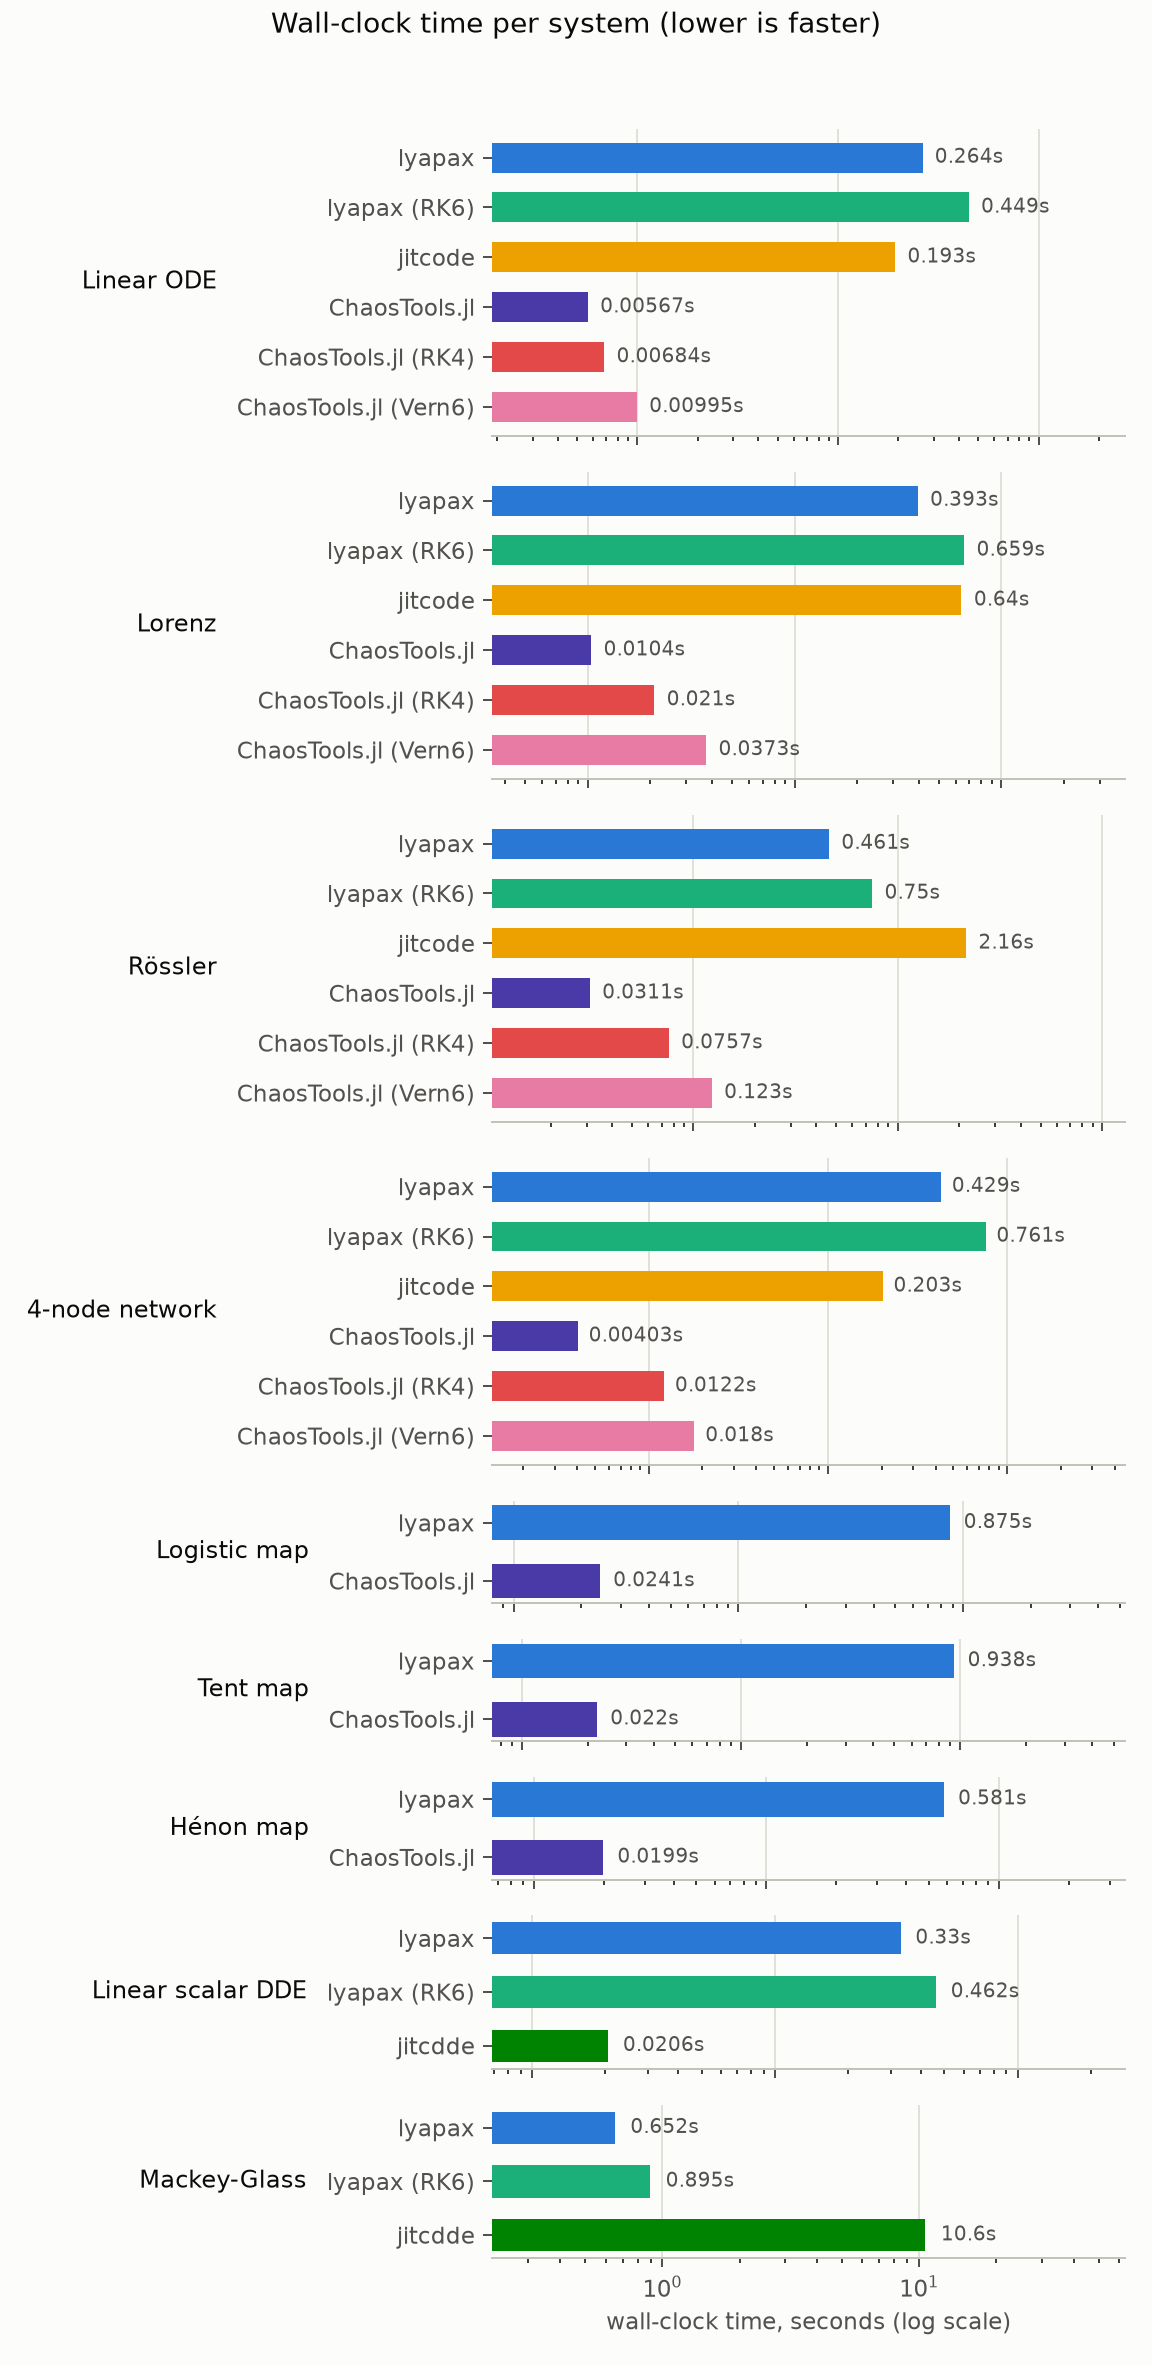
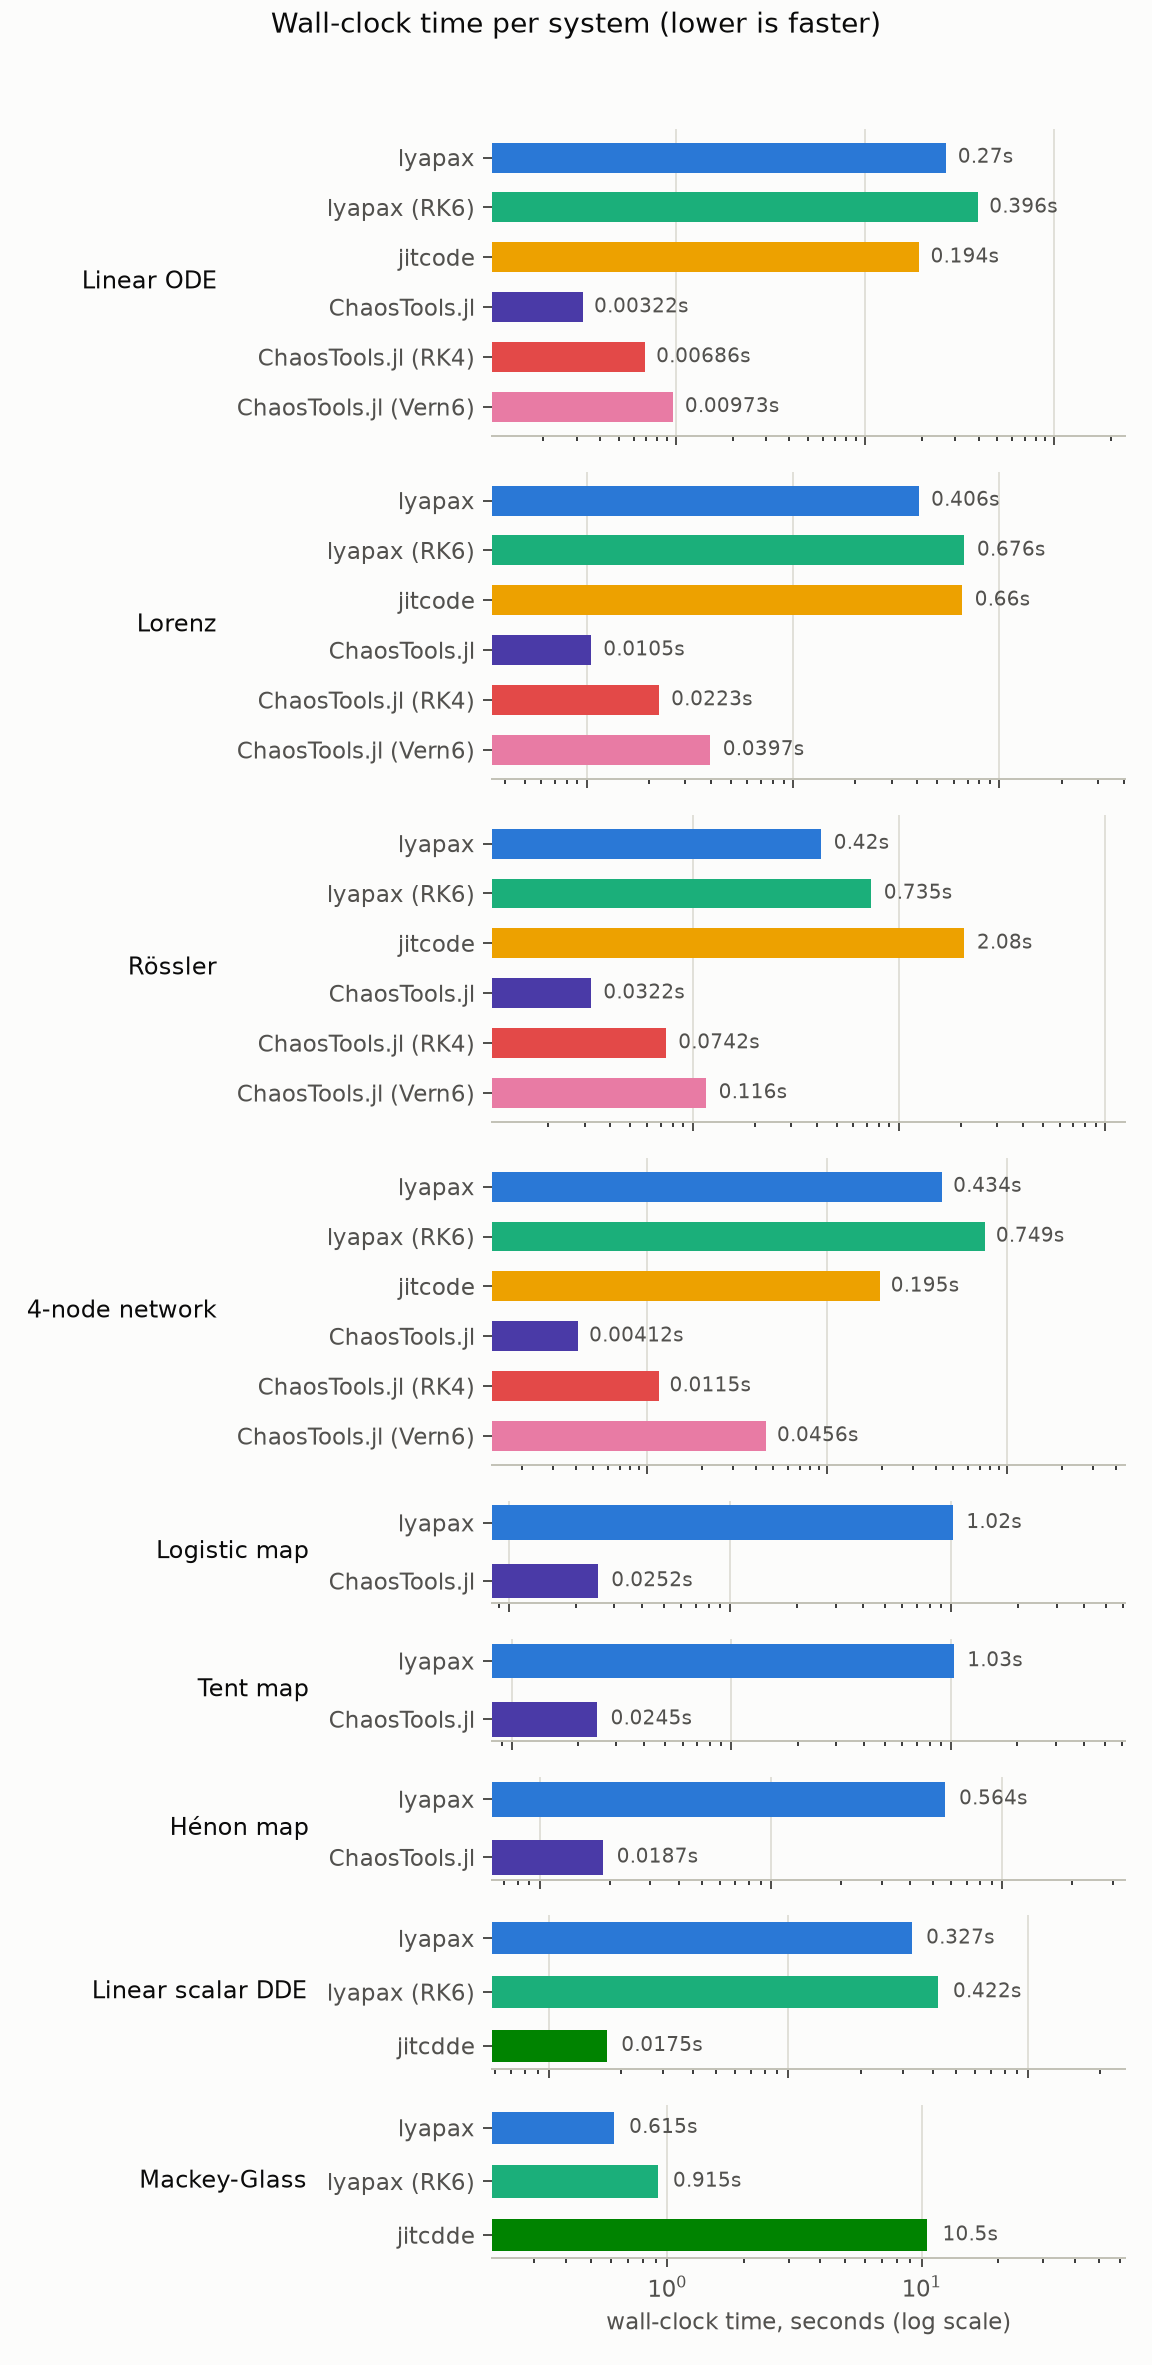
Add scaling performance plots and tables for lyapax and ChaosTools

diff --git a/benchmarks/report_plots.py b/benchmarks/report_plots.py
@@ -35,6 +35,7 @@ TOOL_COLOR = {
     "chaostools": "#4a3aa7",       # slot 5, violet
     "chaostools-rk4": "#e34948",   # slot 6, red
     "chaostools-rk6": "#e87ba4",   # slot 7, magenta
+    "lyapax-gpu": "#eb6834",       # slot 8, orange
 }
 TOOL_LABEL = {
     "lyapax": "lyapax",
@@ -44,6 +45,7 @@ TOOL_LABEL = {
     "chaostools": "ChaosTools.jl",
     "chaostools-rk4": "ChaosTools.jl (RK4)",
     "chaostools-rk6": "ChaosTools.jl (Vern6)",
+    "lyapax-gpu": "lyapax (GPU)",
 }
 
 SYSTEM_LABEL = {
@@ -129,11 +131,54 @@ def plot_performance(by_system: dict, out_path: Path) -> None:
     plt.close(fig)
 
 
+def plot_scaling(by_system: dict, out_path: Path) -> None:
+    """Wall-clock time vs. network size d, log-log, one line/marker series
+    per tool -- lyapax's k<<d matrix-free cost vs. ChaosTools.jl's/
+    jitcode's cost blowing up with d (or, for jitcode, its build cost --
+    not shown here, see docs/background/benchmarks.md's prose -- making it
+    stop at d=50 regardless of what its single steady-state point below
+    looks like).
+    """
+    tool_order = ["lyapax", "lyapax-gpu", "chaostools-rk4", "jitcode"]
+    sizes = [50, 200, 1000, 2000]
+    systems = [f"kuramoto_scaling_d{d}" for d in sizes]
+
+    fig, ax = plt.subplots(figsize=(6.4, 4.4), facecolor=SURFACE)
+    for tool in tool_order:
+        xs, ys = [], []
+        for d, sys_key in zip(sizes, systems):
+            row = by_system.get(sys_key, {}).get(tool)
+            if row is not None:
+                xs.append(d)
+                ys.append(row["warm_s"])
+        if not xs:
+            continue
+        marker = "o" if len(xs) > 1 else "x"
+        ax.plot(xs, ys, marker=marker, color=TOOL_COLOR[tool],
+                 label=TOOL_LABEL[tool], linewidth=2, markersize=6)
+
+    ax.set_xscale("log")
+    ax.set_yscale("log")
+    ax.set_xlabel("network size d (n_nodes)", fontsize=9, color=INK_SECONDARY)
+    ax.set_ylabel("wall-clock time, seconds (log scale)", fontsize=9,
+                   color=INK_SECONDARY)
+    ax.set_title("Dense Kuramoto network: wall time vs. size",
+                  fontsize=11, color=INK_PRIMARY, loc="left")
+    _style_axes(ax)
+    ax.legend(frameon=False, fontsize=8.5, labelcolor=INK_SECONDARY)
+
+    fig.tight_layout()
+    fig.savefig(out_path, dpi=180, facecolor=SURFACE)
+    plt.close(fig)
+
+
 def main() -> None:
     STATIC_DIR.mkdir(parents=True, exist_ok=True)
     by_system = load_results()
     plot_performance(by_system, STATIC_DIR / "benchmarks_performance.png")
+    plot_scaling(by_system, STATIC_DIR / "benchmarks_scaling.png")
     print(f"Wrote {STATIC_DIR / 'benchmarks_performance.png'}")
+    print(f"Wrote {STATIC_DIR / 'benchmarks_scaling.png'}")
 
 
 if __name__ == "__main__":

diff --git a/benchmarks/report_tables.py b/benchmarks/report_tables.py
@@ -266,11 +266,29 @@ def build_performance_table(by_system: dict) -> str:
     return _md_table(headers, rows)
 
 
+def build_scaling_table(by_system: dict) -> str:
+    order = ["lyapax", "lyapax-gpu", "chaostools-rk4", "jitcode"]
+    sizes = [50, 200, 1000, 2000]
+    systems = [f"kuramoto_scaling_d{d}" for d in sizes]
+    tools = _present(by_system, systems, order)
+    headers = ["Network size (d)"] + [TOOL_LABEL[t] for t in tools]
+    rows = []
+    for d, sys_key in zip(sizes, systems):
+        sys_rows = by_system.get(sys_key, {})
+        if not sys_rows:
+            continue
+        warm = [f"`{sys_rows[t]['warm_s']:.3f}s`" if t in sys_rows else "not attempted"
+                for t in tools]
+        rows.append([f"`{d}`", *warm])
+    return _md_table(headers, rows)
+
+
 MARKERS = {
     "ode-accuracy": build_ode_table,
     "maps-accuracy": build_maps_table,
     "dde-accuracy": build_dde_table,
     "performance": build_performance_table,
+    "scaling": build_scaling_table,
 }
 
 
@@ -304,6 +322,8 @@ def main() -> None:
     print(build_dde_table(by_system))
     print("\n### Performance\n")
     print(build_performance_table(by_system))
+    print("\n### Network-size scaling\n")
+    print(build_scaling_table(by_system))
 
     if args.write:
         for report_path in REPORT_PATHS:

diff --git a/docs/background/benchmarks.md b/docs/background/benchmarks.md
@@ -59,11 +59,11 @@ since it has no delay-equation support).
 <!-- AUTO:ode-accuracy -->
 | System | lyapax | lyapax (RK6) | jitcode | ChaosTools.jl | ChaosTools.jl (RK4) | ChaosTools.jl (Vern6) | Reference | Notes |
 |---|---|---|---|---|---|---|---|---|
-| Linear ODE (Tier 0.1) | `[-1.0000, -2.0000, -5.0000]` | `[-1.0000, -2.0000, -5.0000]` | `[-1.0000, -2.0000, -5.0000]` | `[-1.0000, -2.0000, -5.0000]` | `[-1.0000, -2.0000, -5.0000]` | `[-1.0000, -2.0000, -5.0000]` | exact `[-1, -2, -5]` | max abs diff from reference -- lyapax: `9.45e-07`, lyapax (RK6): `9.45e-07`, jitcode: `3.23e-06`, ChaosTools.jl: `8.76e-11`, ChaosTools.jl (RK4): `2.80e-11`, ChaosTools.jl (Vern6): `2.03e-12` |
-| Lorenz λ1 (Tier 1.1/2) | `0.90172` | `0.90878` | `0.90782` | `0.89674` | `0.90632` | `0.91334` | published `≈0.9056` | max abs diff from reference -- lyapax: `3.88e-03`, lyapax (RK6): `3.18e-03`, jitcode: `2.22e-03`, ChaosTools.jl: `8.86e-03`, ChaosTools.jl (RK4): `7.17e-04`, ChaosTools.jl (Vern6): `7.74e-03` |
-| Lorenz sum(λ) | `-13.6666` | `-13.6667` | `-13.6667` | `-13.5228` | `-13.6666` | `-13.6667` | exact `-13.6667` (`-(σ+1+β)`) | max abs diff from reference -- lyapax: `1.02e-04`, lyapax (RK6): `1.79e-09`, jitcode: `1.55e-06`, ChaosTools.jl: `1.44e-01`, ChaosTools.jl (RK4): `1.03e-04`, ChaosTools.jl (Vern6): `1.82e-09` |
-| Rössler λ1 (Tier 1.2/2) | `0.07080` | `0.08017` | `0.07244` | `0.06205` | `0.07545` | `0.07264` | qualitative `≈0.07` | max abs diff from reference -- lyapax: `7.98e-04`, lyapax (RK6): `1.02e-02`, jitcode: `2.44e-03`, ChaosTools.jl: `7.95e-03`, ChaosTools.jl (RK4): `5.45e-03`, ChaosTools.jl (Vern6): `2.64e-03` |
-| 4-node linear network (Tier 3.1) | `[-1.0000, -2.0000, -2.0000, -3.0000]` | `[-1.0000, -2.0000, -2.0000, -3.0000]` | `[-1.0000, -2.0000, -2.0000, -3.0000]` | `[-1.0000, -2.0000, -2.0000, -3.0000]` | `[-1.0000, -2.0000, -2.0000, -3.0000]` | `[-1.0000, -2.0000, -2.0000, -3.0000]` | exact `[-1, -2, -2, -3]` | max abs diff from reference -- lyapax: `3.53e-06`, lyapax (RK6): `3.53e-06`, jitcode: `3.83e-06`, ChaosTools.jl: `2.23e-06`, ChaosTools.jl (RK4): `2.18e-06`, ChaosTools.jl (Vern6): `2.18e-06` |
+| Linear ODE (Tier 0.1) | `[-1.0000, -2.0000, -5.0000]` | `[-1.0000, -2.0000, -5.0000]` | `[-1.0000, -2.0000, -5.0000]` | `[-1.0000, -2.0000, -5.0000]` | `[-1.0000, -2.0000, -5.0000]` | `[-1.0000, -2.0000, -5.0000]` | exact `[-1, -2, -5]` | max abs diff from reference -- lyapax: `9.45e-07`, lyapax (RK6): `9.45e-07`, jitcode: `3.91e-05`, ChaosTools.jl: `8.76e-11`, ChaosTools.jl (RK4): `2.80e-11`, ChaosTools.jl (Vern6): `2.03e-12` |
+| Lorenz λ1 (Tier 1.1/2) | `0.90172` | `0.90878` | `0.91444` | `0.89674` | `0.90632` | `0.91334` | published `≈0.9056` | max abs diff from reference -- lyapax: `3.88e-03`, lyapax (RK6): `3.18e-03`, jitcode: `8.84e-03`, ChaosTools.jl: `8.86e-03`, ChaosTools.jl (RK4): `7.17e-04`, ChaosTools.jl (Vern6): `7.74e-03` |
+| Lorenz sum(λ) | `-13.6666` | `-13.6667` | `-13.6667` | `-13.5228` | `-13.6666` | `-13.6667` | exact `-13.6667` (`-(σ+1+β)`) | max abs diff from reference -- lyapax: `1.02e-04`, lyapax (RK6): `1.79e-09`, jitcode: `1.53e-06`, ChaosTools.jl: `1.44e-01`, ChaosTools.jl (RK4): `1.03e-04`, ChaosTools.jl (Vern6): `1.82e-09` |
+| Rössler λ1 (Tier 1.2/2) | `0.07080` | `0.08017` | `0.07011` | `0.06205` | `0.07545` | `0.07264` | qualitative `≈0.07` | max abs diff from reference -- lyapax: `7.98e-04`, lyapax (RK6): `1.02e-02`, jitcode: `1.08e-04`, ChaosTools.jl: `7.95e-03`, ChaosTools.jl (RK4): `5.45e-03`, ChaosTools.jl (Vern6): `2.64e-03` |
+| 4-node linear network (Tier 3.1) | `[-1.0000, -2.0000, -2.0000, -3.0000]` | `[-1.0000, -2.0000, -2.0000, -3.0000]` | `[-1.0000, -2.0000, -2.0000, -3.0000]` | `[-1.0000, -2.0000, -2.0000, -3.0000]` | `[-1.0000, -2.0000, -2.0000, -3.0000]` | `[-1.0000, -2.0000, -2.0000, -3.0000]` | exact `[-1, -2, -2, -3]` | max abs diff from reference -- lyapax: `3.53e-06`, lyapax (RK6): `3.53e-06`, jitcode: `1.09e-05`, ChaosTools.jl: `2.23e-06`, ChaosTools.jl (RK4): `2.18e-06`, ChaosTools.jl (Vern6): `2.18e-06` |
 <!-- END AUTO:ode-accuracy -->
 
 ### Map systems
@@ -81,9 +81,9 @@ since it has no delay-equation support).
 <!-- AUTO:dde-accuracy -->
 | System | lyapax | lyapax (RK6) | jitcdde | Reference | Notes |
 |---|---|---|---|---|---|
-| Linear scalar DDE (Tier 4.2) | `-0.60050` | `-0.60050` | `-0.59831` | Lambert W root `-0.598304` | max abs diff from reference -- lyapax: `2.19e-03`, lyapax (RK6): `2.19e-03`, jitcdde: `8.01e-07` |
-| Mackey-Glass λ1 (Tier 4.1) | `0.00796` | `0.00727` | `0.00531` | qualitative `1e-03`-`1e-02` | lyapax inside band; lyapax (RK6) inside band; jitcdde inside band |
-| Mackey-Glass KY dimension | `2.206` | `2.191` | `2.137` | `2.0`-`3.0` | lyapax inside band; lyapax (RK6) inside band; jitcdde inside band |
+| Linear scalar DDE (Tier 4.2) | `-0.60050` | `-0.60050` | `-0.59830` | Lambert W root `-0.598304` | max abs diff from reference -- lyapax: `2.19e-03`, lyapax (RK6): `2.19e-03`, jitcdde: `7.26e-07` |
+| Mackey-Glass λ1 (Tier 4.1) | `0.00796` | `0.00727` | `0.00517` | qualitative `1e-03`-`1e-02` | lyapax inside band; lyapax (RK6) inside band; jitcdde inside band |
+| Mackey-Glass KY dimension | `2.206` | `2.191` | `2.133` | `2.0`-`3.0` | lyapax inside band; lyapax (RK6) inside band; jitcdde inside band |
 | 2-node delayed linear network (Tier 4.3) | not yet run | not yet run | not yet run | Lambert W root (2x2) | deferred -- not yet run against jitcdde |
 <!-- END AUTO:dde-accuracy -->
 
@@ -111,12 +111,12 @@ algorithm mismatch.
 <!-- AUTO:performance -->
 | System | lyapax | lyapax (RK6) | lyapax (GPU) | lyapax (RK6, GPU) | jitcode | jitcdde | ChaosTools.jl | ChaosTools.jl (RK4) | ChaosTools.jl (Vern6) |
 |---|---|---|---|---|---|---|---|---|---|
-| Linear ODE (Tier 0.1) | `0.264s` | `0.449s` | `0.942s` | `1.518s` | `0.193s` | -- | `0.006s` | `0.007s` | `0.010s` |
-| Lorenz | `0.393s` | `0.659s` | `1.790s` | `3.470s` | `0.640s` | -- | `0.010s` | `0.021s` | `0.037s` |
-| Rössler | `0.461s` | `0.750s` | `4.782s` | `9.454s` | `2.159s` | -- | `0.031s` | `0.076s` | `0.123s` |
-| 4-node network (Tier 3.1) | `0.429s` | `0.761s` | `1.189s` | `2.304s` | `0.203s` | -- | `0.004s` | `0.012s` | `0.018s` |
-| Linear scalar DDE (Tier 4.2) | `0.330s` | `0.462s` | `0.692s` | `0.911s` | -- | `0.021s` | -- | -- | -- |
-| Mackey-Glass | `0.652s` | `0.895s` | `1.450s` | `2.100s` | -- | `10.564s` | -- | -- | -- |
+| Linear ODE (Tier 0.1) | `0.270s` | `0.396s` | `0.961s` | `1.488s` | `0.194s` | -- | `0.003s` | `0.007s` | `0.010s` |
+| Lorenz | `0.406s` | `0.676s` | `1.834s` | `3.448s` | `0.660s` | -- | `0.010s` | `0.022s` | `0.040s` |
+| Rössler | `0.420s` | `0.735s` | `4.727s` | `9.369s` | `2.076s` | -- | `0.032s` | `0.074s` | `0.116s` |
+| 4-node network (Tier 3.1) | `0.434s` | `0.749s` | `1.208s` | `2.268s` | `0.195s` | -- | `0.004s` | `0.012s` | `0.046s` |
+| Linear scalar DDE (Tier 4.2) | `0.327s` | `0.422s` | `0.700s` | `0.848s` | -- | `0.017s` | -- | -- | -- |
+| Mackey-Glass | `0.615s` | `0.915s` | `1.399s` | `1.984s` | -- | `10.502s` | -- | -- | -- |
 <!-- END AUTO:performance -->
 
 The plot below is generated from the same `benchmarks/results.json`
@@ -130,3 +130,69 @@ per-call overhead on these small toy systems and is the fastest tool
 for most of them regardless.
 
 ![Warm wall-clock time per system, all tools](/_static/benchmarks_performance.png)
+
+## Network-size scaling
+
+Every system above is small (3–4 state dimensions) — deliberately, so
+each has an exact or published reference to validate against. But it
+also means none of them exercise the part of `lyapax`'s design meant for
+*bigger* problems. This section uses one further system, a dense
+(all-to-all) Kuramoto network, at increasing size `d`, tracking a fixed
+`k=5` partial spectrum — the same system as
+[10_matrix_free_scaling.py](../../examples/10_matrix_free_scaling.py) /
+[14_gpu_acceleration.py](../../examples/14_gpu_acceleration.py), run
+here across tools instead of just `lyapax` CPU vs. GPU. It's a
+performance-only comparison — a short, no-transient run, not validated
+against a reference spectrum the way the tables above are — so read the
+timings, not the exponent values.
+
+**`lyapax`'s cost here is dominated by `k`, not `d`.** `jax.jvp` computes
+only the `k=5` tangent directions actually requested, regardless of how
+large the network is (see `lyapax.core.lyapunov_spectrum`'s docstring).
+That's why `ChaosTools.jl` and `jitcode` — both of which stop well short
+of `lyapax`'s full `d=50/200/1000/2000` sweep — aren't a same-algorithm
+comparison being run partway; they're at (or past) their own scaling
+limit:
+
+- **`ChaosTools.jl`** stops at `d=200` (using the fixed-step `RK4()`
+  established above as the fair algorithm to compare). Its tangent
+  propagation forms the **full dense `d x d` Jacobian via `ForwardDiff`
+  every step**, regardless of `k` — the opposite of `lyapax`'s
+  matrix-free approach. The table below shows this cost growing far
+  worse than quadratically between `d=50` and `d=200`; a direct test at
+  `d=1000` was abandoned after running well past ten minutes without
+  finishing a single call. This is a genuine per-call cost, not a
+  one-time compile tax — a direct comparison of that same `d=200` run's
+  first and warm calls came out within a few percent of each other,
+  unlike a case dominated by JIT/compile overhead.
+- **`jitcode`** stops at `d=50` for a different reason: it differentiates
+  the right-hand side **symbolically before compiling to C**, and that
+  compile step alone took on the order of a minute for a dense `d=50`
+  network (~2,450 nonzero coupling terms) in a direct test, before a
+  single integration step ran — a cost the table below doesn't show,
+  since it (like the rest of this page) reports steady-state, post-compile
+  time only. Unlike `ChaosTools.jl`'s bottleneck, this one *is*
+  front-loaded — once compiled, `jitcode`'s own steady-state call is
+  fast — but the compile cost itself scales with network density and
+  would only be worse at `d=200`+.
+
+`lyapax` pays neither cost at any of these sizes: no symbolic
+differentiation step to compile, and no dense Jacobian to form at
+run time.
+
+<!-- AUTO:scaling -->
+| Network size (d) | lyapax | lyapax (GPU) | ChaosTools.jl (RK4) | jitcode |
+|---|---|---|---|---|
+| `50` | `0.372s` | `0.330s` | `1.878s` | `0.585s` |
+| `200` | `1.075s` | `0.265s` | `174.227s` | not attempted |
+| `1000` | `7.659s` | `0.624s` | not attempted | not attempted |
+| `2000` | `35.773s` | `1.419s` | not attempted | not attempted |
+<!-- END AUTO:scaling -->
+
+The `d=1000`/`d=2000` rows are also where `lyapax`'s GPU backend earns
+its keep — unlike the small 3–4-dimensional systems above, where GPU
+lost outright to CPU (see the performance table's GPU columns), a dense
+`d=2000` network's per-step arithmetic is large enough to amortize GPU
+dispatch overhead.
+
+![Wall-clock time vs. network size, dense Kuramoto network](/_static/benchmarks_scaling.png)